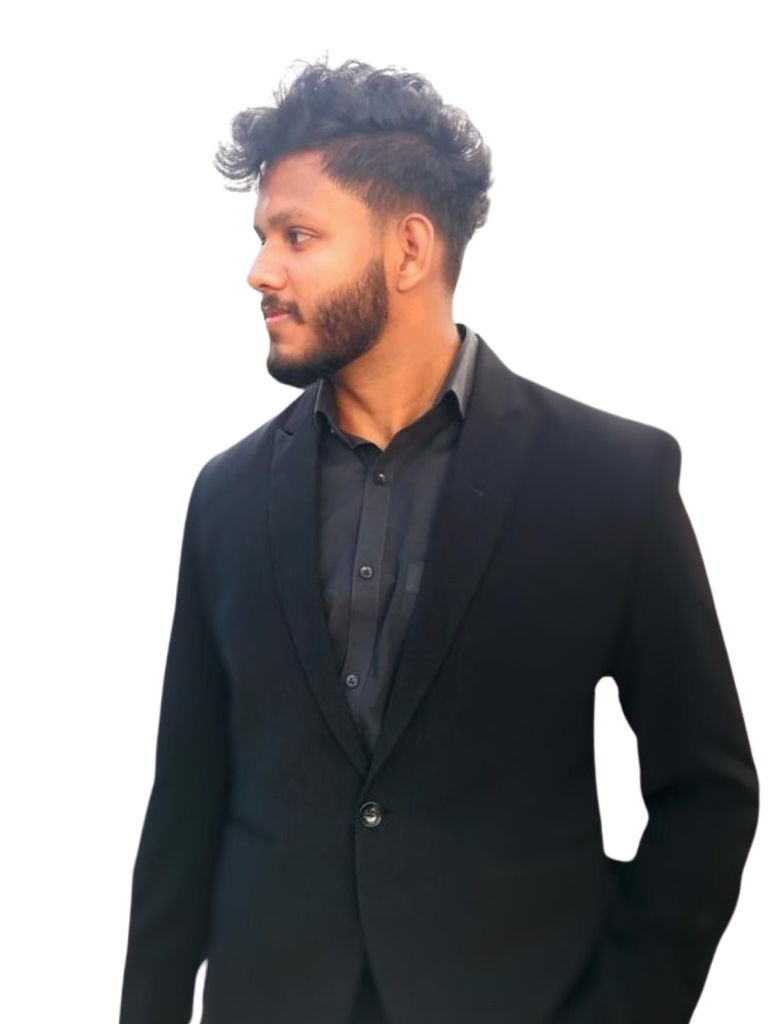
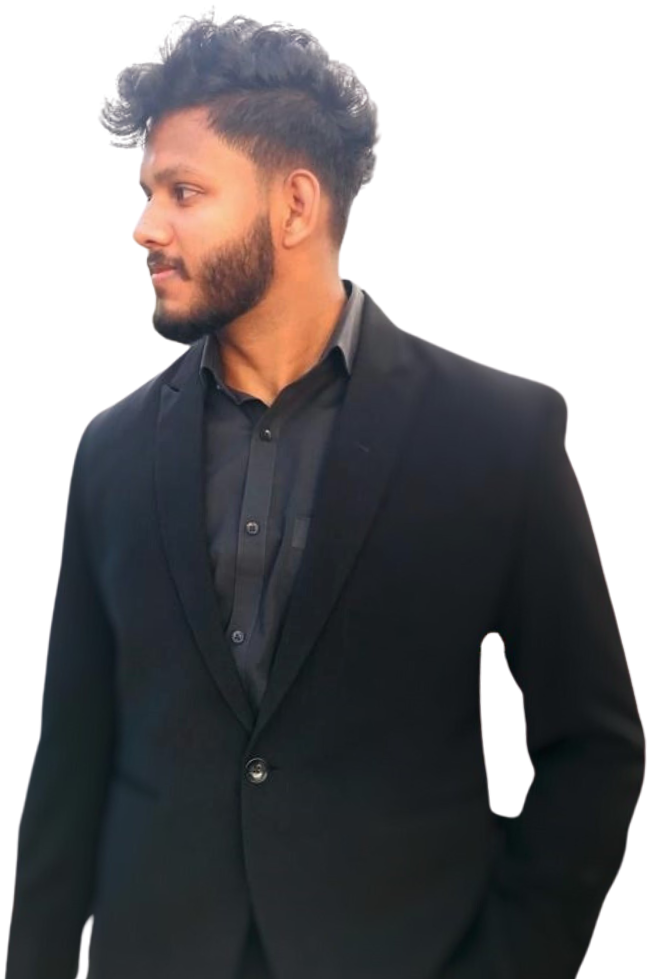
Finalized the size of the DP.

diff --git a/assets/css/styles.css b/assets/css/styles.css
@@ -8,7 +8,7 @@ html > body > main > section {
 }
 
 html > body > footer > section {
-    height: 90vh;
+    height: 95vh;
 }
 
 section > div:nth-child(1) {
@@ -17,23 +17,26 @@ section > div:nth-child(1) {
 }
 
 /*header*/
-header > nav {
+html > body > header > nav {
     background-color: black;
     width: 100%;
     align-items: center;
-    position: fixed;
+    position: absolute;
+    right: 0;
     top: 0;
     display: flex;
     z-index: 4;
 }
 
-html > body > header > nav > menu > div.button-pallet > a {
+html > body > header > nav > menu > div > a {
     color: white;
     font-family: Poppins;
     font-weight: bold;
     text-align: right;
-    display: inline;
-    position: sticky;
+    display: inline-block;
+    top: 0;
+    right: 0;
+    position: relative;
 }
 
 /*Home*/
@@ -440,9 +443,9 @@ button {
     display: flex;*/
 }
 
-.button-pallet {
-    float: right;
-}
+/*.button-pallet {*/
+/*    float: right;*/
+/*}*/
 
 h1:first-letter {
     color: chartreuse;

diff --git a/index.html b/index.html
@@ -34,7 +34,7 @@
         </figure>
 
         <menu>
-            <div class="button-pallet">
+            <div>
                 <a href="#home">Home</a>
                 <a href="#about">About</a>
                 <a href="#projects">Projects</a>
